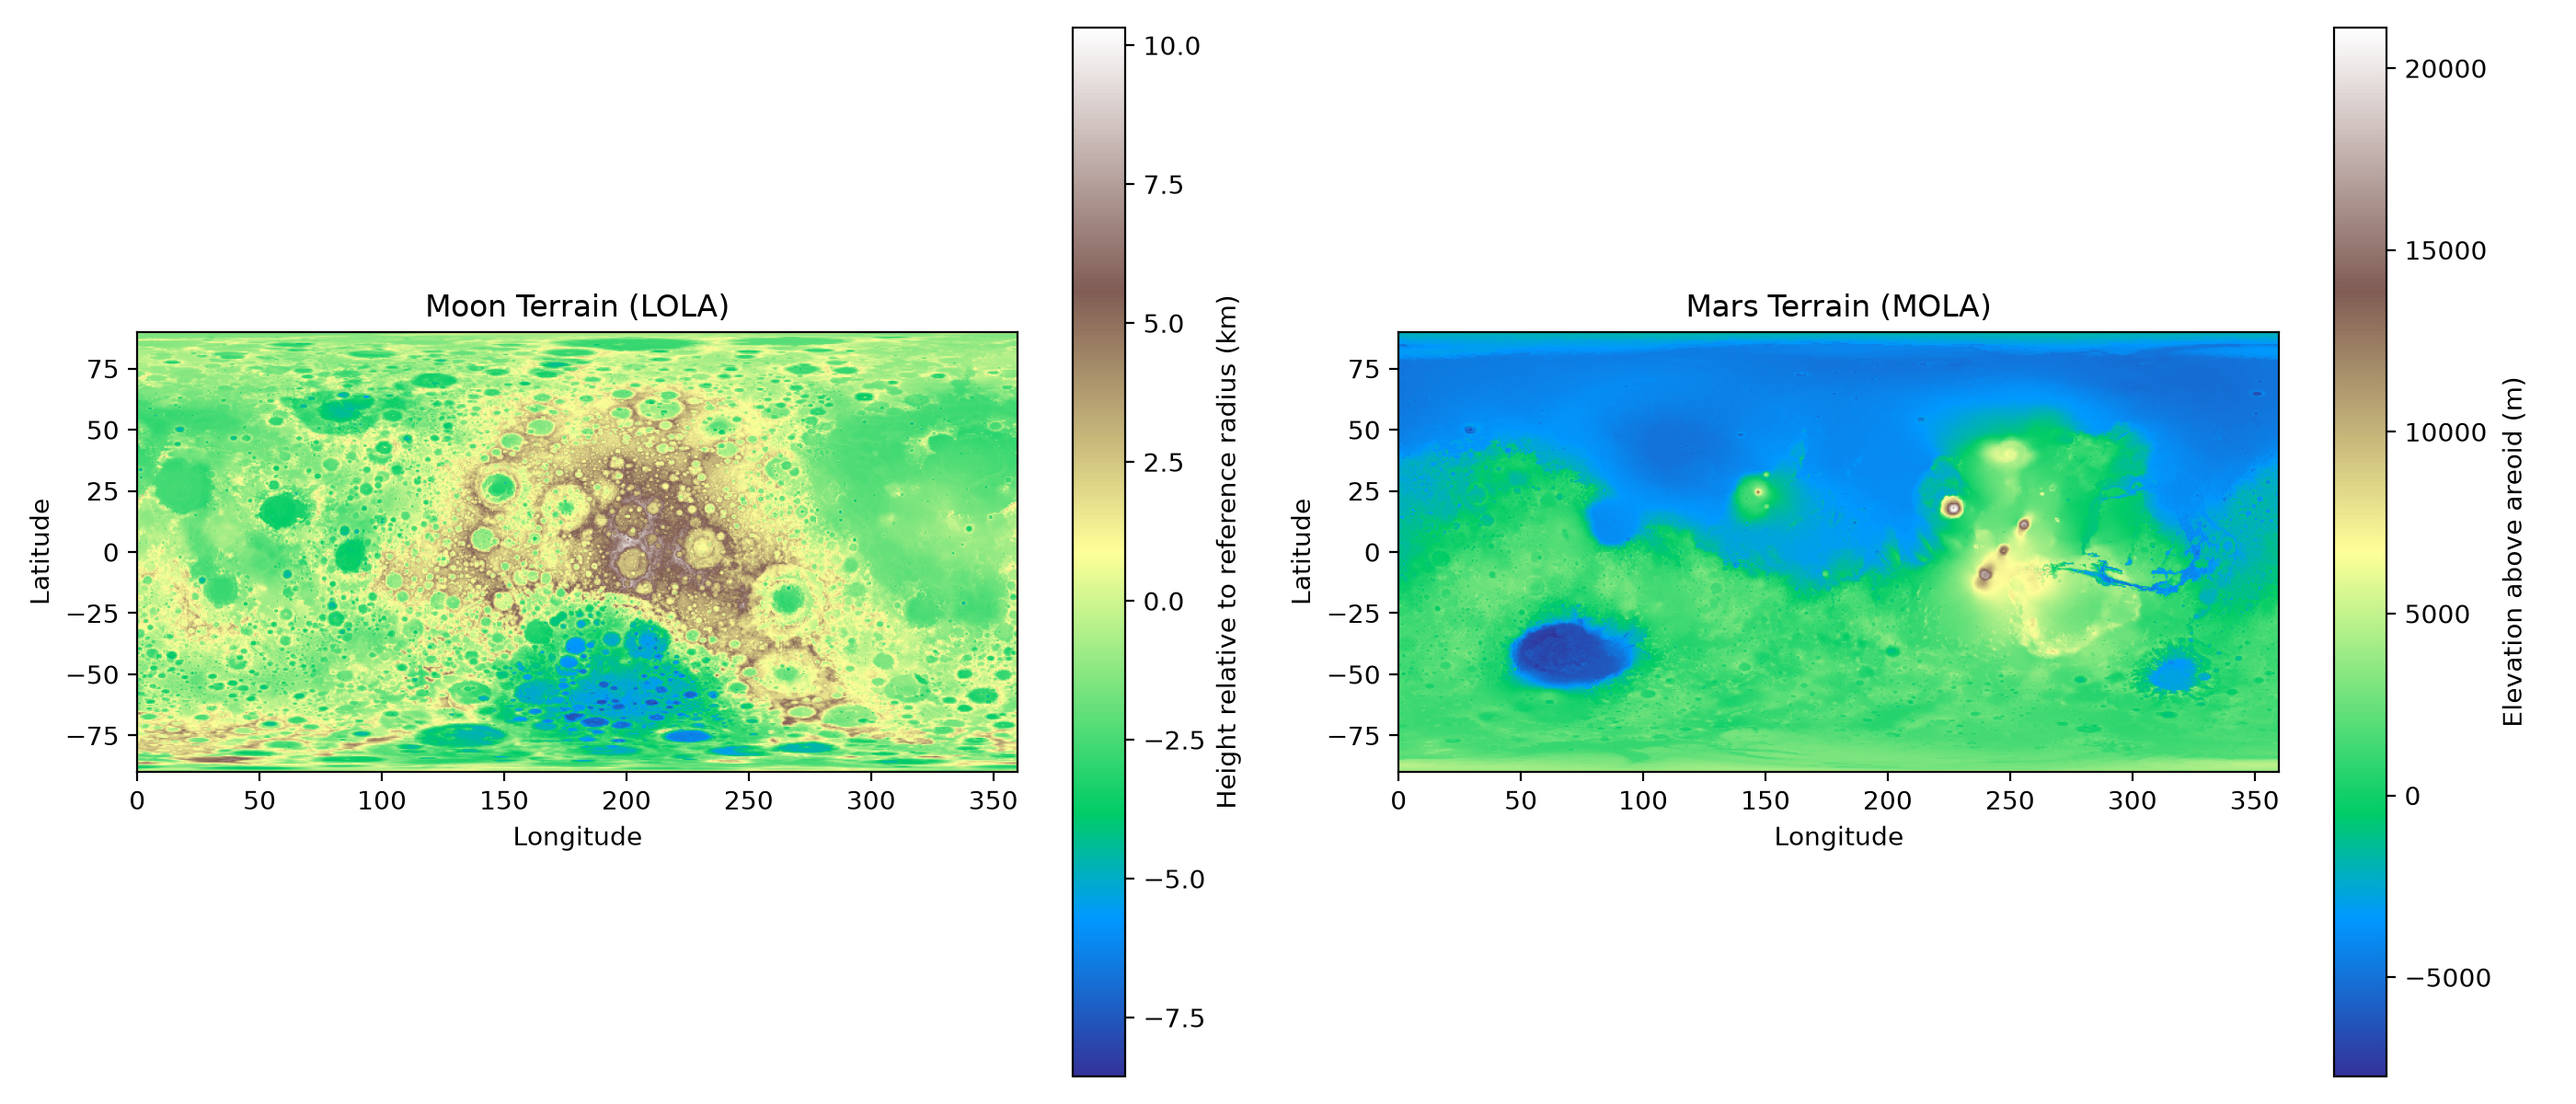
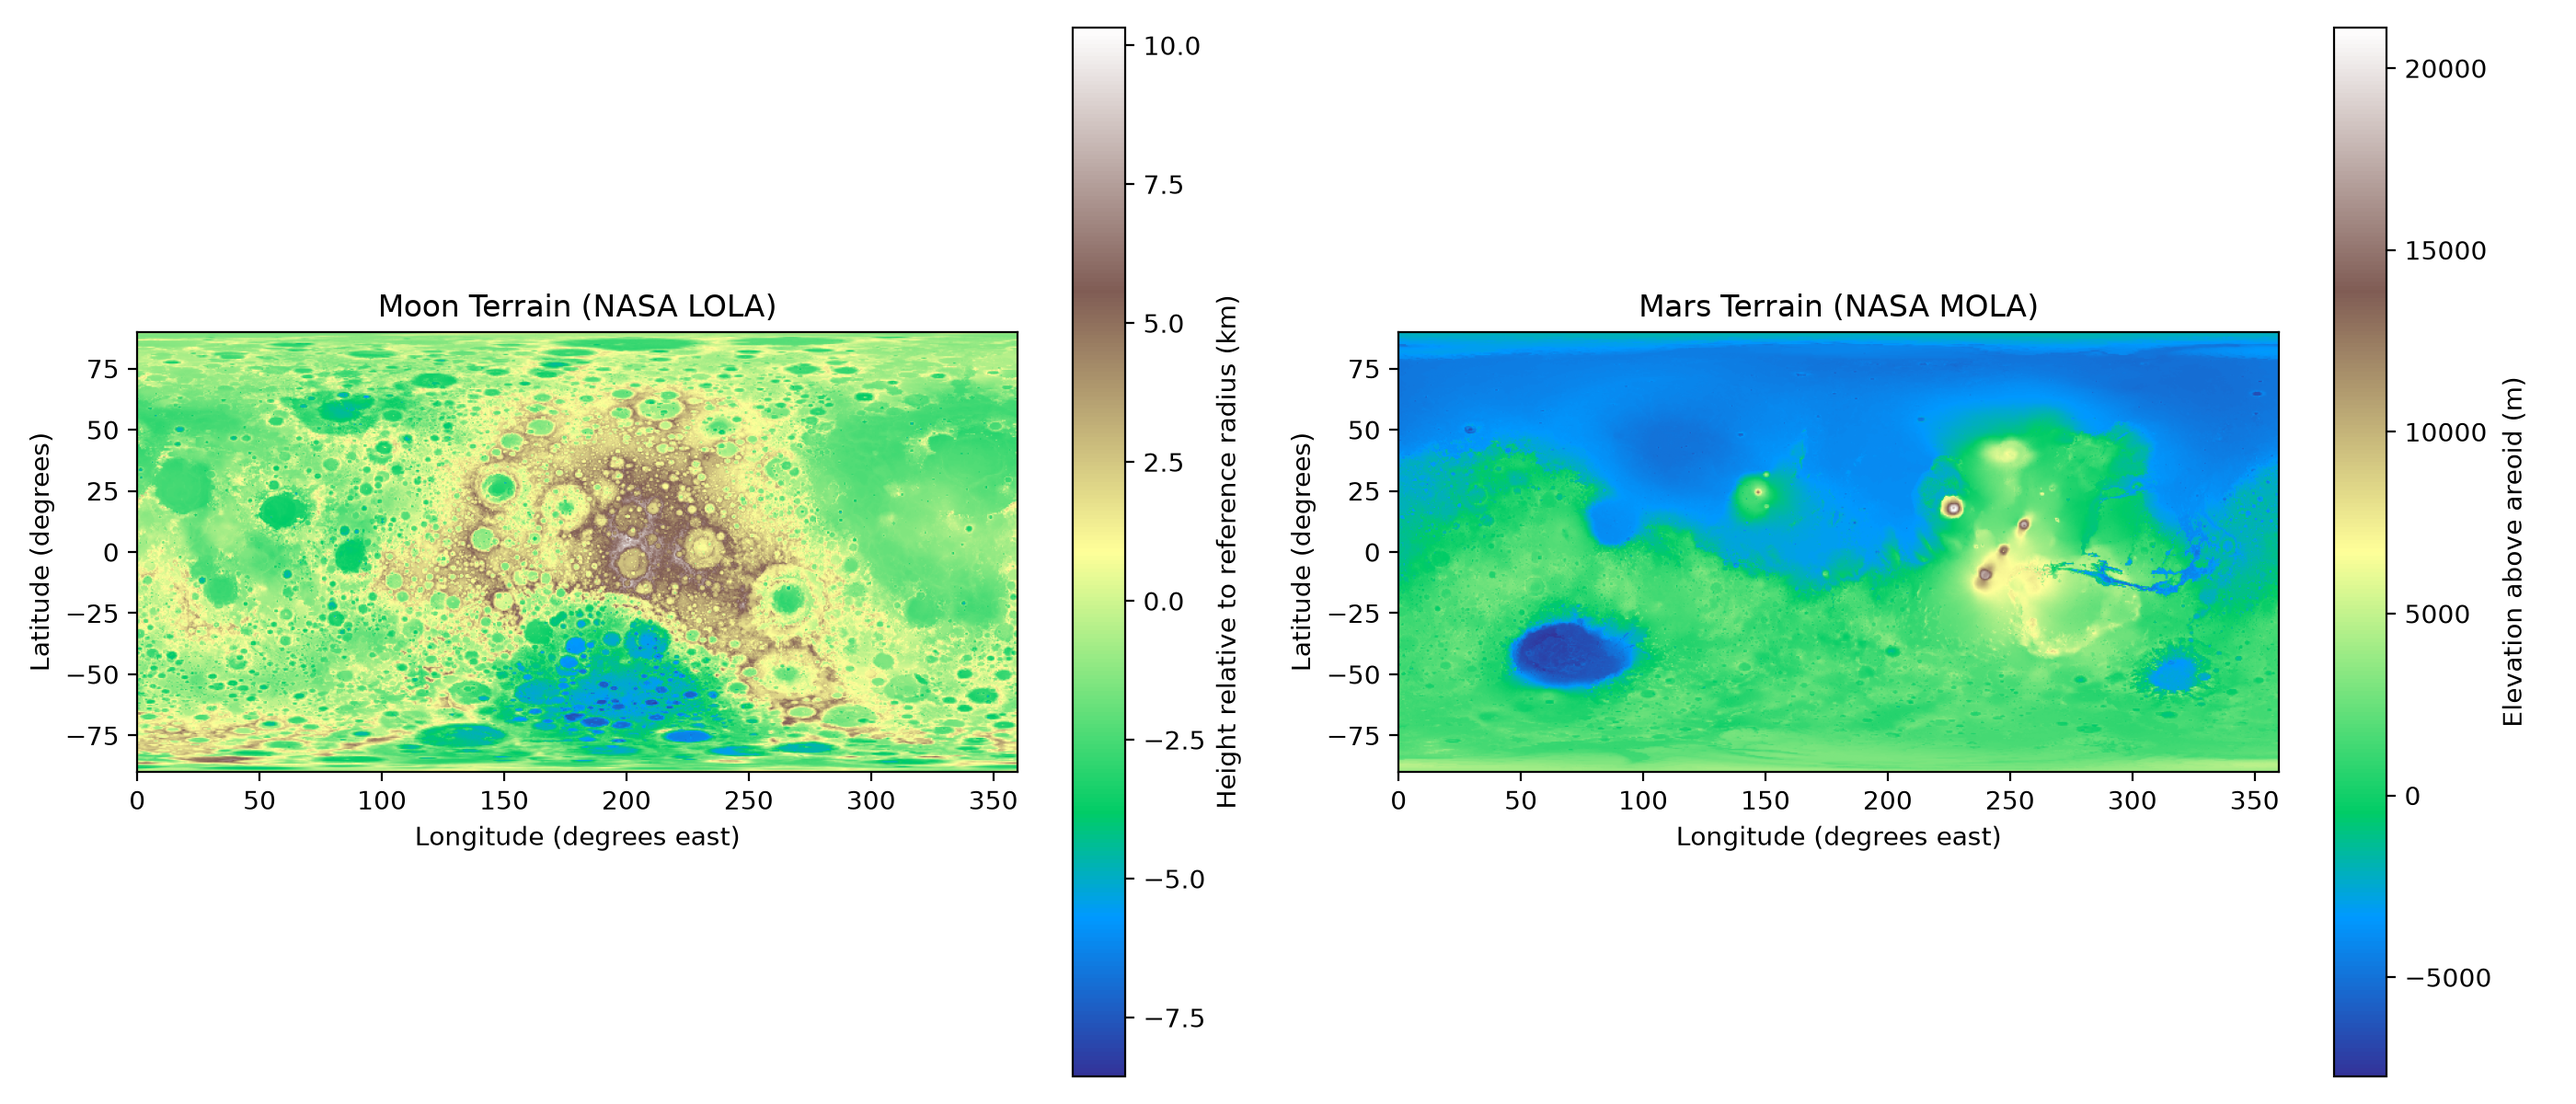
Add Moon Mars terrain statistics 4.

diff --git a/planetary_module/terrain_comparison.py b/planetary_module/terrain_comparison.py
@@ -1,3 +1,4 @@
+
 from pathlib import Path
 import numpy as np
 import matplotlib.pyplot as plt
@@ -18,13 +19,23 @@ def load_mars():
     return data.reshape((2880, 5760))
 
 
+def print_statistics(name, data, unit):
+    print(f"\n{name} TERRAIN STATISTICS")
+    print("Minimum:", np.min(data), unit)
+    print("Maximum:", np.max(data), unit)
+    print("Mean:", np.mean(data), unit)
+    print("Standard deviation:", np.std(data), unit)
+
+
 def main():
     print("Loading Moon and Mars terrain...")
 
     moon = load_moon()
     mars = load_mars()
 
-    # Convert both maps to a common grid size for visual comparison.
+    print_statistics("MOON", moon, "km relative to reference radius")
+    print_statistics("MARS", mars, "meters above areoid")
+
     moon_small = moon[::4, ::4]
     mars_small = mars[::8, ::8]
 
@@ -36,10 +47,14 @@ def main():
         extent=[0, 360, -90, 90],
         origin="upper"
     )
-    axes[0].set_title("Moon Terrain (LOLA)")
-    axes[0].set_xlabel("Longitude")
-    axes[0].set_ylabel("Latitude")
-    fig.colorbar(moon_plot, ax=axes[0], label="Height relative to reference radius (km)")
+    axes[0].set_title("Moon Terrain (NASA LOLA)")
+    axes[0].set_xlabel("Longitude (degrees east)")
+    axes[0].set_ylabel("Latitude (degrees)")
+    fig.colorbar(
+        moon_plot,
+        ax=axes[0],
+        label="Height relative to reference radius (km)"
+    )
 
     mars_plot = axes[1].imshow(
         mars_small,
@@ -47,18 +62,26 @@ def main():
         extent=[0, 360, -90, 90],
         origin="upper"
     )
-    axes[1].set_title("Mars Terrain (MOLA)")
-    axes[1].set_xlabel("Longitude")
-    axes[1].set_ylabel("Latitude")
-    fig.colorbar(mars_plot, ax=axes[1], label="Elevation above areoid (m)")
+    axes[1].set_title("Mars Terrain (NASA MOLA)")
+    axes[1].set_xlabel("Longitude (degrees east)")
+    axes[1].set_ylabel("Latitude (degrees)")
+    fig.colorbar(
+        mars_plot,
+        ax=axes[1],
+        label="Elevation above areoid (m)"
+    )
 
     plt.tight_layout()
 
-    output_file = PROJECT_DIR / "data/processed/comparison/moon_mars_comparison.png"
+    output_file = (
+        PROJECT_DIR / "data/processed/comparison/moon_mars_comparison.png"
+    )
     output_file.parent.mkdir(parents=True, exist_ok=True)
+
     plt.savefig(output_file, dpi=200)
 
-    print("Comparison map saved at:", output_file)
+    print("\nComparison map saved at:", output_file)
+
     plt.show()
 
 
